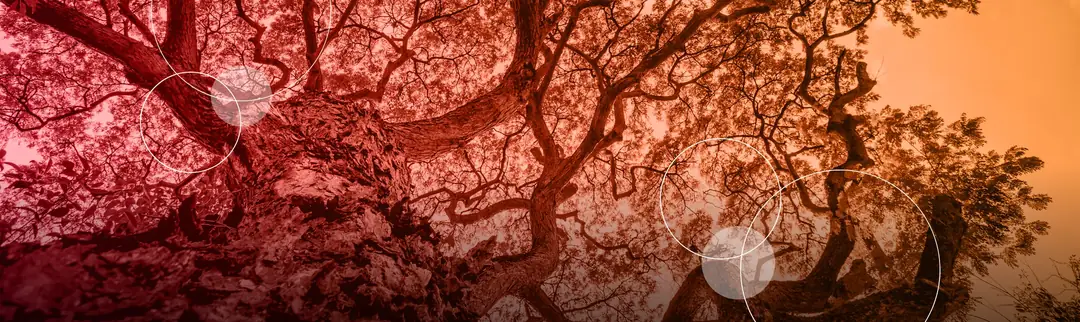
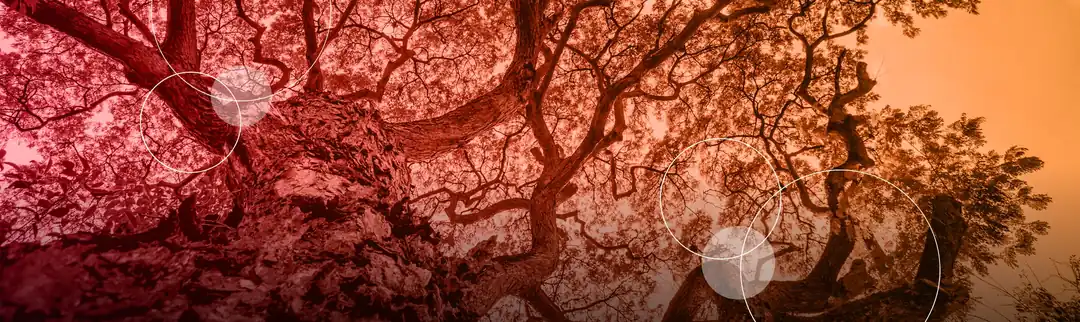
fdfsdfds

diff --git a/functions.php b/functions.php
@@ -372,6 +372,47 @@
     }
     add_action( 'wp_enqueue_scripts', 'trafigura_dequeue_unused_assets', 9999 );
     add_action( 'elementor/frontend/after_enqueue_styles', 'trafigura_dequeue_unused_assets', 9999 );
+
+    /**
+     * Elementor kit/post CSS is not needed to paint the theme hero.
+     * Keep the files, but do not let them block first paint on the phone.
+     */
+    function trafigura_defer_elementor_styles( $html, $handle, $href, $media ) {
+        if ( is_admin() ) {
+            return $html;
+        }
+        $defer = ( strpos( $handle, 'elementor' ) === 0 || $handle === 'base-desktop' || $handle === 'base-mobile' );
+        if ( ! $defer || strpos( $html, 'onload=' ) !== false ) {
+            return $html;
+        }
+        $restore = ( is_string( $media ) && $media !== '' && $media !== 'all' ) ? $media : 'all';
+        $onload  = "this.media='" . esc_js( $restore ) . "'";
+        $replaced = preg_replace( "/\\smedia=(['\"]).*?\\1/i", " media='print' onload=\"{$onload}\"", $html, 1 );
+        if ( $replaced === null || $replaced === $html ) {
+            $replaced = str_replace( '<link ', "<link media='print' onload=\"{$onload}\" ", $html );
+        }
+        $noscript = '<noscript><link rel="stylesheet" href="' . esc_url( $href ) . '" media="' . esc_attr( $restore ) . '"></noscript>';
+        return $replaced . $noscript;
+    }
+    add_filter( 'style_loader_tag', 'trafigura_defer_elementor_styles', 20, 4 );
+
+    /**
+     * Launch films in page content must not start a multi‑megabyte download
+     * during first paint. Play still works when the visitor hits the control.
+     */
+    function trafigura_video_preload_none( $html ) {
+        if ( ! is_string( $html ) || stripos( $html, '<video' ) === false ) {
+            return $html;
+        }
+        return preg_replace_callback( '/<video\b([^>]*)>/i', static function ( $m ) {
+            $attrs = $m[1];
+            if ( preg_match( '/\bpreload\s*=/i', $attrs ) ) {
+                return preg_replace( '/\bpreload\s*=\s*([\'"]).*?\1/i', 'preload="none"', $m[0], 1 );
+            }
+            return '<video preload="none"' . $attrs . '>';
+        }, $html );
+    }
+    add_filter( 'the_content', 'trafigura_video_preload_none', 20 );
     add_filter( 'elementor/frontend/print_google_fonts', '__return_false' );
 
     /**

diff --git a/template-parts/content/page-our-approach.php b/template-parts/content/page-our-approach.php
@@ -345,7 +345,10 @@ body {
           <div class="container--1440">
             <div animation="fade" class="approach--impact-content">
               <h2 class="heading-28 is--28margin-bottom" data-text="t712dd1e7"><?php echo _u('t712dd1e7','text'); ?></h2>
-              <p data-text="t407d535e"><?php echo _u('t407d535e','text'); ?></p>
+              <p data-text="t407d535e"><?php
+              $coalition = _u( 't407d535e', 'text' );
+              echo str_replace( 'Learn more', 'Climate adaptation call to action', $coalition );
+              ?></p>
             </div>
           </div>
         </section>

diff --git a/SEO/monthly-reports/2026-10-shipped.md b/SEO/monthly-reports/2026-10-shipped.md
@@ -110,7 +110,9 @@ Page: `https://trafigurafoundation.org/our-approach/`
 
 **Not the LCP, leave out of the client PDF unless we change them.** Elementor CSS/JS on this page (render-blocking estimate ~1,270 ms). A ClimateWorks link in the page body uses the text “Learn more” (SEO 92). The launch film is a 30 MB MP4 and the lab failed to open it (best practices 96).
 
-**Coded 2 Oct 2026, after score not run yet.** Hero is eager, `no-lazy`, `fetchpriority="high"`, smaller files (800 / 1080 / 1440 WebP), heading no longer waits on the animation script. Re-test before quoting an after number.
+**First re-test (2 Oct 2026, 15:59) — do not quote.** Mobile performance **68**, LCP **6.5 s**, FCP 2.4 s, Speed Index 5.1 s. The hero file was correct (`02.OUR-APPROACH-800.webp`, ~50 KB, `fetchpriority`, not lazy) but the score was worse than the 78 / 5.2 s start. Render-blocking Elementor stylesheets and a `<video>` with no `preload` (30 MB MP4, lab connection failed) were still in the way.
+
+**Follow-up coded the same day, after score not run yet.** Elementor CSS no longer blocks first paint. The video waits until play. The 800px banner was recompressed (~37 KB). The ClimateWorks link text is “Climate adaptation call to action” instead of “Learn more”. Re-test before quoting an after number.
 
 ### Client wording (draft — add once re-tested)
 
